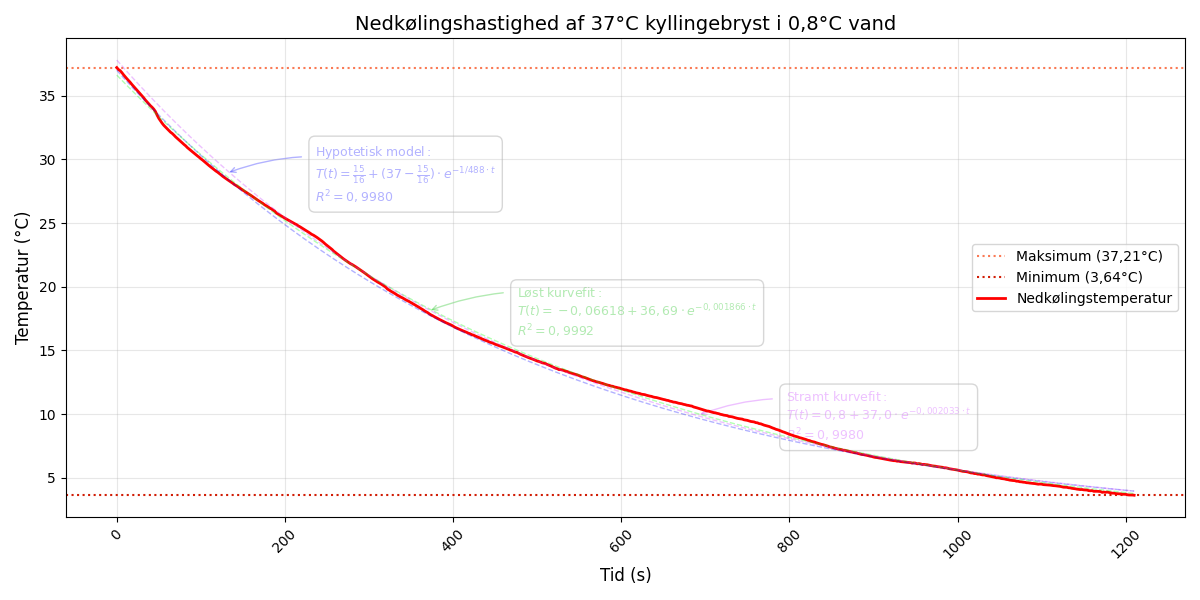
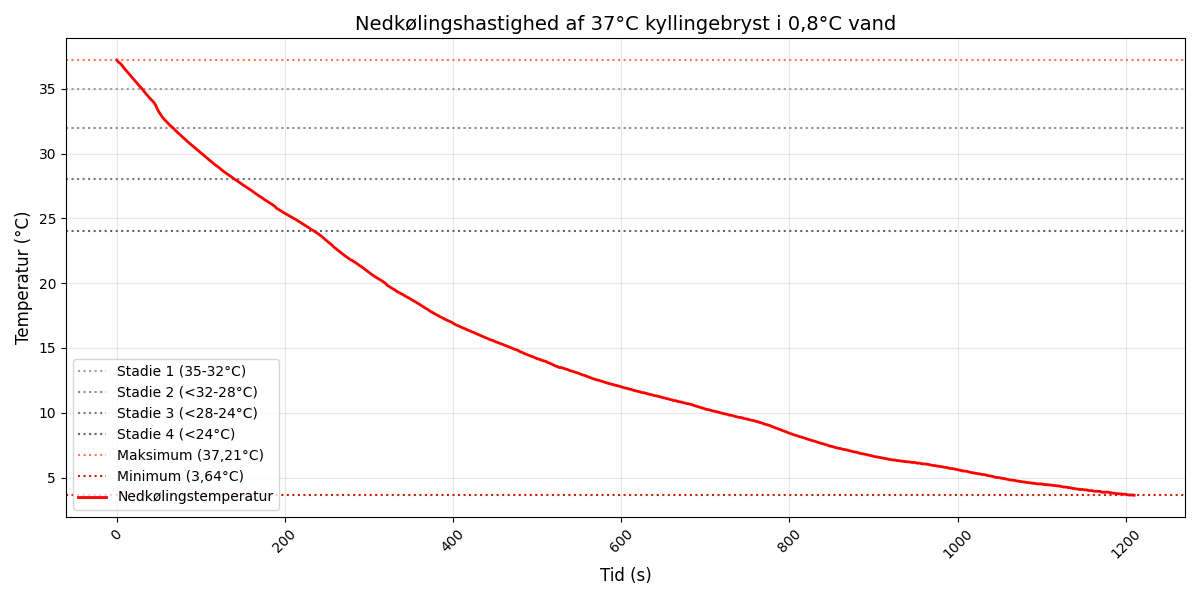
feat: add hypothermia stages

diff --git a/render.py b/render.py
@@ -104,6 +104,16 @@ def add_minmax():
     plt.axhline(y=max_temp, color='#fa7a55', linestyle=':', label='Maksimum (' + f"{statistics['Maksimum']:.2f}".replace('.', ',') + '°C)')
     plt.axhline(y=min_temp, color='#d11d05', linestyle=':', label='Minimum (' + f"{statistics['Minimum']:.2f}".replace('.', ',') + '°C)')
 
+def add_hypothermia_stages():
+    stage_1 = 35
+    stage_2 = 32
+    stage_3 = 28
+    stage_4 = 24
+    plt.axhline(y=stage_1, color='#9e9e9e', linestyle=':', label='Stadie 1 (35-32°C)')
+    plt.axhline(y=stage_2, color='#8b8b8b', linestyle=':', label='Stadie 2 (<32-28°C)')
+    plt.axhline(y=stage_3, color='#777777', linestyle=':', label='Stadie 3 (<28-24°C)')
+    plt.axhline(y=stage_4, color='#646464', linestyle=':', label='Stadie 4 (<24°C)')
+
 def print_statistics(stats):
     print("Temperaturstatistics:")
     for key, value in stats.items():
@@ -134,6 +144,9 @@ print_statistics(statistics)
 
 # Opret diagrammet
 plt.figure(figsize=(12, 6))
+
+# Tilføj hypotermi faser
+# add_hypothermia_stages()
 
 # Tilføj min-max linjer
 add_minmax()
